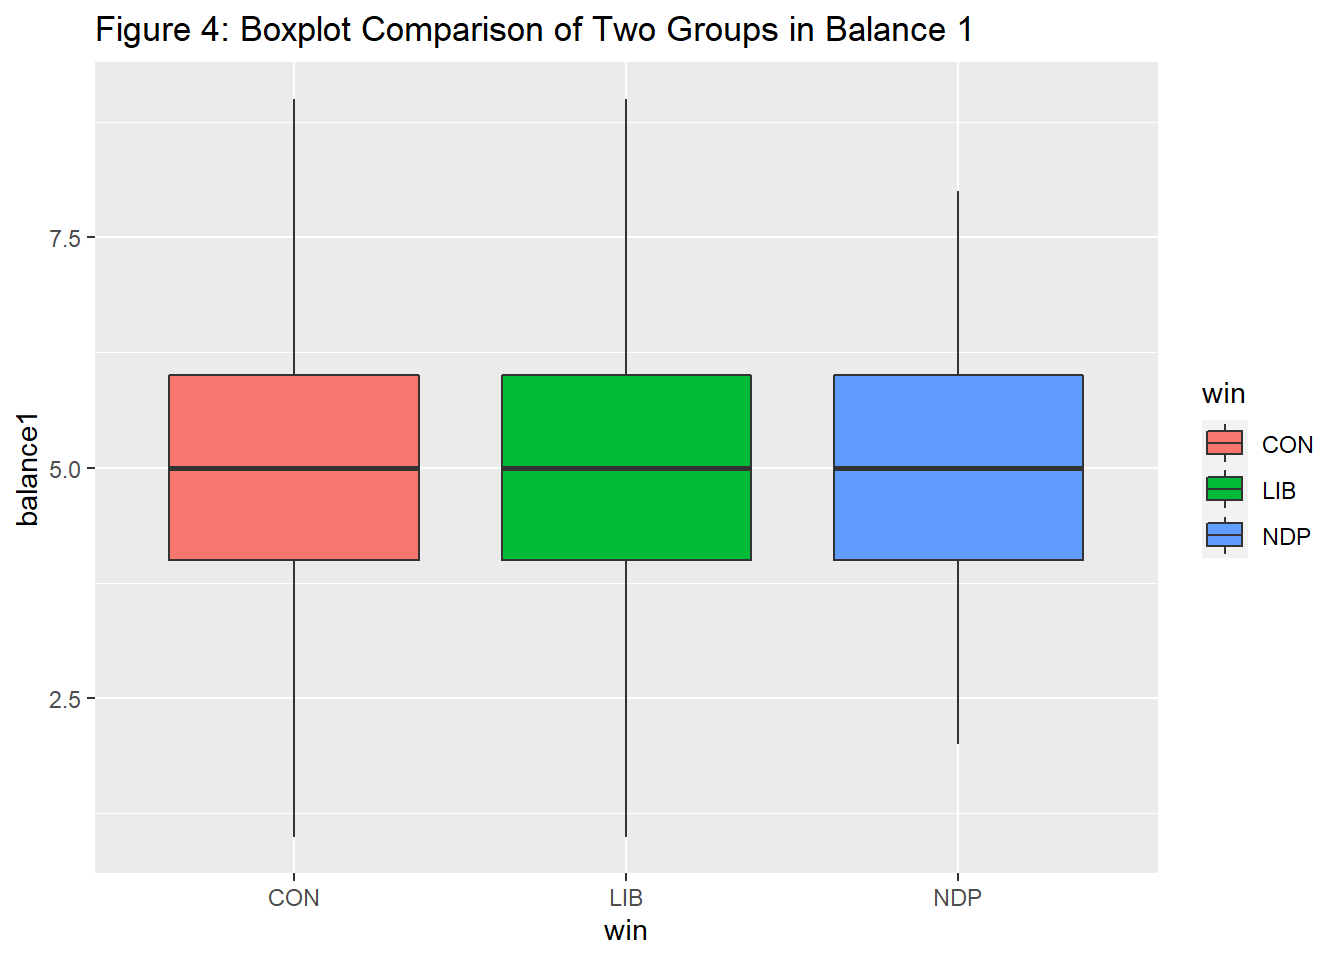
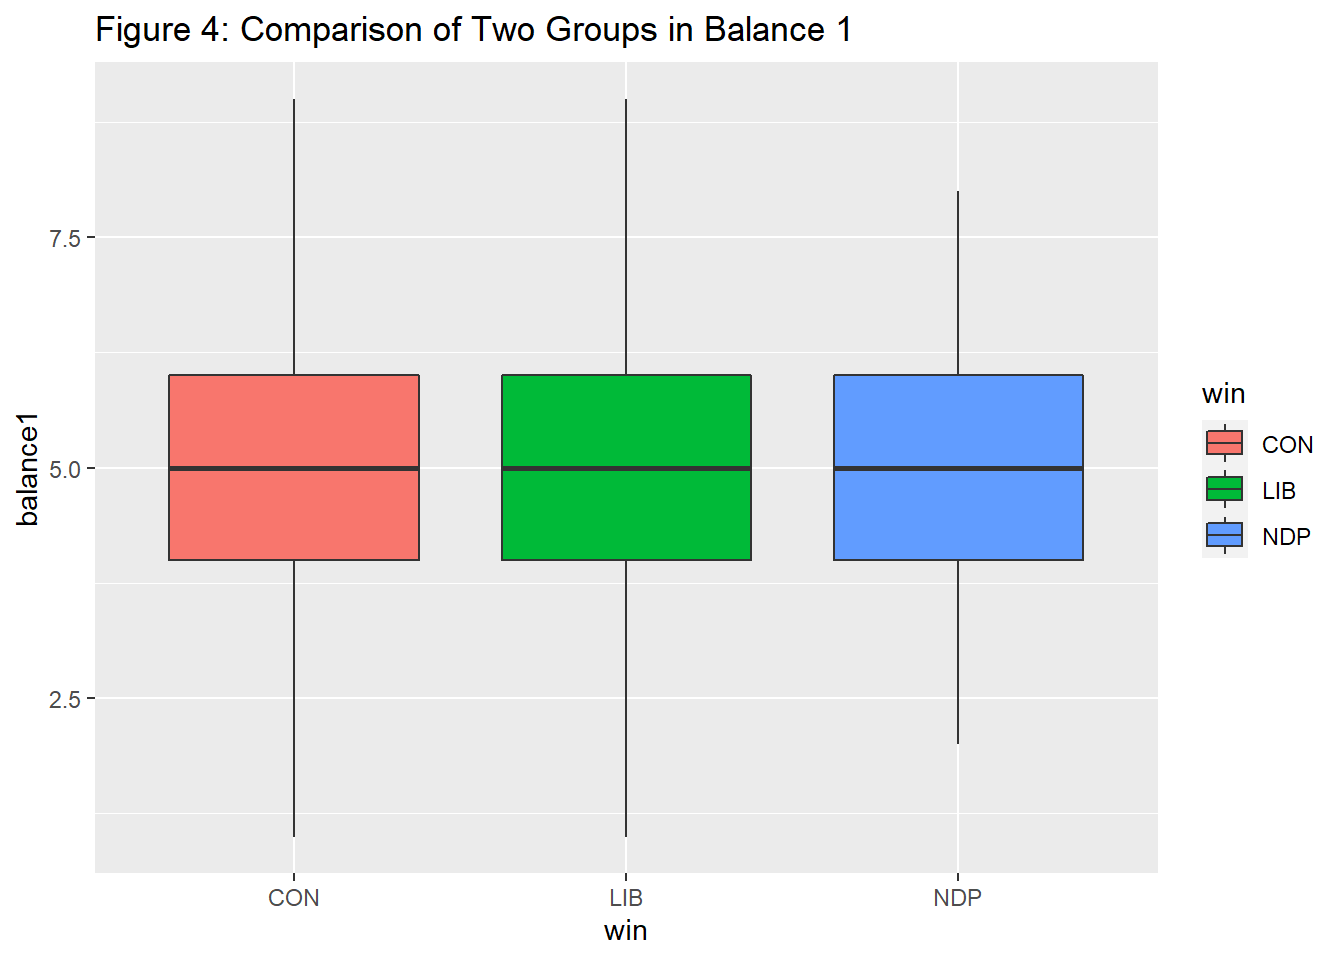
Add files via upload

Changed region(s): [[0.3125, 0.0, 0.7188, 0.0625], [0.1875, 0.0, 0.2812, 0.0625]]

diff --git a/public/2020/10/02/polling-survey-the-key-of-winning-election/index.html b/public/2020/10/02/polling-survey-the-key-of-winning-election/index.html
@@ -59,7 +59,7 @@
 
   <article class="article">
     
-    <span class="article-duration">17 min read</span>
+    <span class="article-duration">18 min read</span>
     
 
     <h1 class="article-title">Polling Survey: The Key of Winning Election</h1>
@@ -217,6 +217,16 @@ dat &lt;- data.frame(
 <div id="results" class="section level2">
 <h2>Results</h2>
 <p>Although the result comes from simulating, we should know what matters is the method of analysis, not the result of a particular survey.</p>
+<div id="notation" class="section level3">
+<h3>Notation</h3>
+<p>LIB: Liberal Party<br />
+CON: Conservative Party<br />
+NDP: New Democratic Party
+BQ: Bloc Québécois<br />
+GRN: Green Party<br />
+OTH: Other Parties<br />
+</p>
+</div>
 <div id="fundamental-summary" class="section level3">
 <h3>Fundamental Summary</h3>
 <p>First we can view the basic information of the data set generated by the simulation:</p>
@@ -267,14 +277,9 @@ summary(dat)</code></pre>
 </div>
 <div id="exploratory-analysis" class="section level3">
 <h3>Exploratory Analysis</h3>
-<p>Using the fundamental information of survey results, it’s not intuitive for our clients. So we hope to reflect the exact relationship through quantitative expression, in this section, we are trying to find out if the two numeric <code>balance</code> answers can influence each other.</p>
-<pre class="r"><code># correlation statistics
-cor(dat$balance1, dat$balance2)</code></pre>
-<pre><code>## [1] 0.001885394</code></pre>
-<pre class="r"><code># linear regression
-linear.model1 &lt;- lm(balance1 ~ balance2,
-                    data = dat)
-summary(linear.model1)</code></pre>
+<p>Using the fundamental information of survey results, it’s not intuitive for our clients. So we hope to reflect the exact relationship through quantitative expression, in this section, we are trying to find out if the two numeric <code>balance</code> answers(Q11 &amp; Q12) can influence each other.</p>
+<p>Note: balance1 is the responses from Q11 and balance2 is from Q12</p>
+<pre><code>## Correlation between Q11 &amp; Q12:  0.001885394</code></pre>
 <pre><code>## 
 ## Call:
 ## lm(formula = balance1 ~ balance2, data = dat)
@@ -295,7 +300,7 @@ summary(linear.model1)</code></pre>
 ## F-statistic: 0.03554 on 1 and 9998 DF,  p-value: 0.8505</code></pre>
 <p>From the statistics and also the summary, it’s significant that there’s no linear correlation between this two variables. This result comes from our simulation, so of course nothing will be discovered. But in some circumstances, some kind of linear dependence exists between two numeric variables, and our clients can use such model to develop or modify policies.</p>
 <p>Moreover, there are more <code>factor</code> variables we need to analyze. And what we do next is to test whether the means of the two types of samples are the same.</p>
-<p>To be precise, we want to do a hypothesis test, that is, whether people of different genders will make the same level in the first balancing decision (here we are based on the estimation method of statistics in sampling theory, and we believe that the mean can reflect unbiasedly Average) decision-making.</p>
+<p>To be precise, we want to do a hypothesis test, that is, whether people of different genders will make the same level in the first balancing decision (here we are based on the estimation method of statistics in sampling theory, and we believe that the mean can reflect unbiased Average) decision-making.</p>
 <p>So our original hypothesis is: Different genders have the same level of response to the first type of balanced decision-making. In contrast, the alternative hypothesis is that different genders have different levels of response to the first type of balanced decision-making.</p>
 <pre class="r"><code>a &lt;- dat$balance1[which(dat$gender==&#39;M&#39;)]
 b &lt;- dat$balance1[which(dat$gender==&#39;F&#39;)]
@@ -359,7 +364,7 @@ ggplot(dat, aes(x=balance1, color=gender)) +
   geom_density()+
   geom_vline(data=mu, aes(xintercept=grp.mean, color=gender),
              linetype=&quot;dashed&quot;)+
-  ggtitle(&#39;Figure 2: Density Plot of the first balance vote between genders&#39;)</code></pre>
+  ggtitle(&#39;Figure 2: The first balance vote between genders&#39;)</code></pre>
 <p><img src="/post/2020-10-02-survey-of-overall-election-employed-by-the-conservative-party_files/figure-html/unnamed-chunk-8-1.png" width="672" style="display: block; margin: auto;" /></p>
 <p>Since we used simulated data for verification, we can find in Figure 2 that the two genders are the same on the image. But by observing the fineness of the image, it can be found that the density map is indeed an excellent visualization method.</p>
 </div>
@@ -374,7 +379,7 @@ ggplot(dat, aes(x=balance1, color=gender)) +
 
 ggplot(df, aes(x=tags, y=votes, fill=tags)) +
   geom_boxplot() +
-  ggtitle(&#39;Figure 3: Boxplot Comparison of Two Variables&#39;)</code></pre>
+  ggtitle(&#39;Figure 3: Comparison of Two Variables&#39;)</code></pre>
 <p><img src="/post/2020-10-02-survey-of-overall-election-employed-by-the-conservative-party_files/figure-html/unnamed-chunk-9-1.png" width="672" style="display: block; margin: auto;" />
 The result Figure 3 also reflects the similarity of the two simulation variables, which verifies the effectiveness of the method.</p>
 </div>
@@ -383,7 +388,7 @@ The result Figure 3 also reflects the similarity of the two simulation variables
 <p>If we want to know the difference between the results of two balanced groups, we can use:</p>
 <pre class="r"><code>ggplot(dat, aes(x=win, y=balance1, fill=win)) +
   geom_boxplot() +
-  ggtitle(&#39;Figure 4: Boxplot Comparison of Two Groups in Balance 1&#39;)</code></pre>
+  ggtitle(&#39;Figure 4: Comparison of Two Groups in Balance 1&#39;)</code></pre>
 <p><img src="/post/2020-10-02-survey-of-overall-election-employed-by-the-conservative-party_files/figure-html/unnamed-chunk-10-1.png" width="672" style="display: block; margin: auto;" />
 Same as before, the result Figure 4 also reflects the similarity of the simulation data of different groups.</p>
 </div>

diff --git a/content/post/2020-10-02-survey-of-overall-election-employed-by-the-conservative-party.html b/content/post/2020-10-02-survey-of-overall-election-employed-by-the-conservative-party.html
@@ -150,6 +150,16 @@ dat &lt;- data.frame(
 <div id="results" class="section level2">
 <h2>Results</h2>
 <p>Although the result comes from simulating, we should know what matters is the method of analysis, not the result of a particular survey.</p>
+<div id="notation" class="section level3">
+<h3>Notation</h3>
+<p>LIB: Liberal Party<br />
+CON: Conservative Party<br />
+NDP: New Democratic Party
+BQ: Bloc Québécois<br />
+GRN: Green Party<br />
+OTH: Other Parties<br />
+</p>
+</div>
 <div id="fundamental-summary" class="section level3">
 <h3>Fundamental Summary</h3>
 <p>First we can view the basic information of the data set generated by the simulation:</p>
@@ -200,14 +210,9 @@ summary(dat)</code></pre>
 </div>
 <div id="exploratory-analysis" class="section level3">
 <h3>Exploratory Analysis</h3>
-<p>Using the fundamental information of survey results, it’s not intuitive for our clients. So we hope to reflect the exact relationship through quantitative expression, in this section, we are trying to find out if the two numeric <code>balance</code> answers can influence each other.</p>
-<pre class="r"><code># correlation statistics
-cor(dat$balance1, dat$balance2)</code></pre>
-<pre><code>## [1] 0.001885394</code></pre>
-<pre class="r"><code># linear regression
-linear.model1 &lt;- lm(balance1 ~ balance2,
-                    data = dat)
-summary(linear.model1)</code></pre>
+<p>Using the fundamental information of survey results, it’s not intuitive for our clients. So we hope to reflect the exact relationship through quantitative expression, in this section, we are trying to find out if the two numeric <code>balance</code> answers(Q11 &amp; Q12) can influence each other.</p>
+<p>Note: balance1 is the responses from Q11 and balance2 is from Q12</p>
+<pre><code>## Correlation between Q11 &amp; Q12:  0.001885394</code></pre>
 <pre><code>## 
 ## Call:
 ## lm(formula = balance1 ~ balance2, data = dat)
@@ -228,7 +233,7 @@ summary(linear.model1)</code></pre>
 ## F-statistic: 0.03554 on 1 and 9998 DF,  p-value: 0.8505</code></pre>
 <p>From the statistics and also the summary, it’s significant that there’s no linear correlation between this two variables. This result comes from our simulation, so of course nothing will be discovered. But in some circumstances, some kind of linear dependence exists between two numeric variables, and our clients can use such model to develop or modify policies.</p>
 <p>Moreover, there are more <code>factor</code> variables we need to analyze. And what we do next is to test whether the means of the two types of samples are the same.</p>
-<p>To be precise, we want to do a hypothesis test, that is, whether people of different genders will make the same level in the first balancing decision (here we are based on the estimation method of statistics in sampling theory, and we believe that the mean can reflect unbiasedly Average) decision-making.</p>
+<p>To be precise, we want to do a hypothesis test, that is, whether people of different genders will make the same level in the first balancing decision (here we are based on the estimation method of statistics in sampling theory, and we believe that the mean can reflect unbiased Average) decision-making.</p>
 <p>So our original hypothesis is: Different genders have the same level of response to the first type of balanced decision-making. In contrast, the alternative hypothesis is that different genders have different levels of response to the first type of balanced decision-making.</p>
 <pre class="r"><code>a &lt;- dat$balance1[which(dat$gender==&#39;M&#39;)]
 b &lt;- dat$balance1[which(dat$gender==&#39;F&#39;)]
@@ -292,7 +297,7 @@ ggplot(dat, aes(x=balance1, color=gender)) +
   geom_density()+
   geom_vline(data=mu, aes(xintercept=grp.mean, color=gender),
              linetype=&quot;dashed&quot;)+
-  ggtitle(&#39;Figure 2: Density Plot of the first balance vote between genders&#39;)</code></pre>
+  ggtitle(&#39;Figure 2: The first balance vote between genders&#39;)</code></pre>
 <p><img src="/post/2020-10-02-survey-of-overall-election-employed-by-the-conservative-party_files/figure-html/unnamed-chunk-8-1.png" width="672" style="display: block; margin: auto;" /></p>
 <p>Since we used simulated data for verification, we can find in Figure 2 that the two genders are the same on the image. But by observing the fineness of the image, it can be found that the density map is indeed an excellent visualization method.</p>
 </div>
@@ -307,7 +312,7 @@ ggplot(dat, aes(x=balance1, color=gender)) +
 
 ggplot(df, aes(x=tags, y=votes, fill=tags)) +
   geom_boxplot() +
-  ggtitle(&#39;Figure 3: Boxplot Comparison of Two Variables&#39;)</code></pre>
+  ggtitle(&#39;Figure 3: Comparison of Two Variables&#39;)</code></pre>
 <p><img src="/post/2020-10-02-survey-of-overall-election-employed-by-the-conservative-party_files/figure-html/unnamed-chunk-9-1.png" width="672" style="display: block; margin: auto;" />
 The result Figure 3 also reflects the similarity of the two simulation variables, which verifies the effectiveness of the method.</p>
 </div>
@@ -316,7 +321,7 @@ The result Figure 3 also reflects the similarity of the two simulation variables
 <p>If we want to know the difference between the results of two balanced groups, we can use:</p>
 <pre class="r"><code>ggplot(dat, aes(x=win, y=balance1, fill=win)) +
   geom_boxplot() +
-  ggtitle(&#39;Figure 4: Boxplot Comparison of Two Groups in Balance 1&#39;)</code></pre>
+  ggtitle(&#39;Figure 4: Comparison of Two Groups in Balance 1&#39;)</code></pre>
 <p><img src="/post/2020-10-02-survey-of-overall-election-employed-by-the-conservative-party_files/figure-html/unnamed-chunk-10-1.png" width="672" style="display: block; margin: auto;" />
 Same as before, the result Figure 4 also reflects the similarity of the simulation data of different groups.</p>
 </div>
